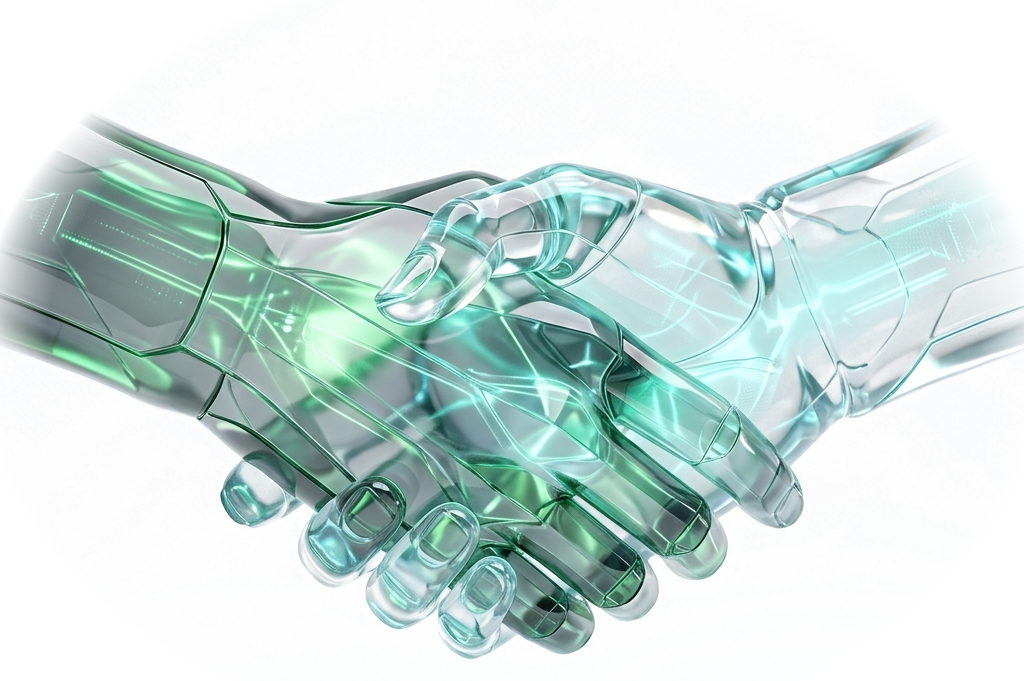
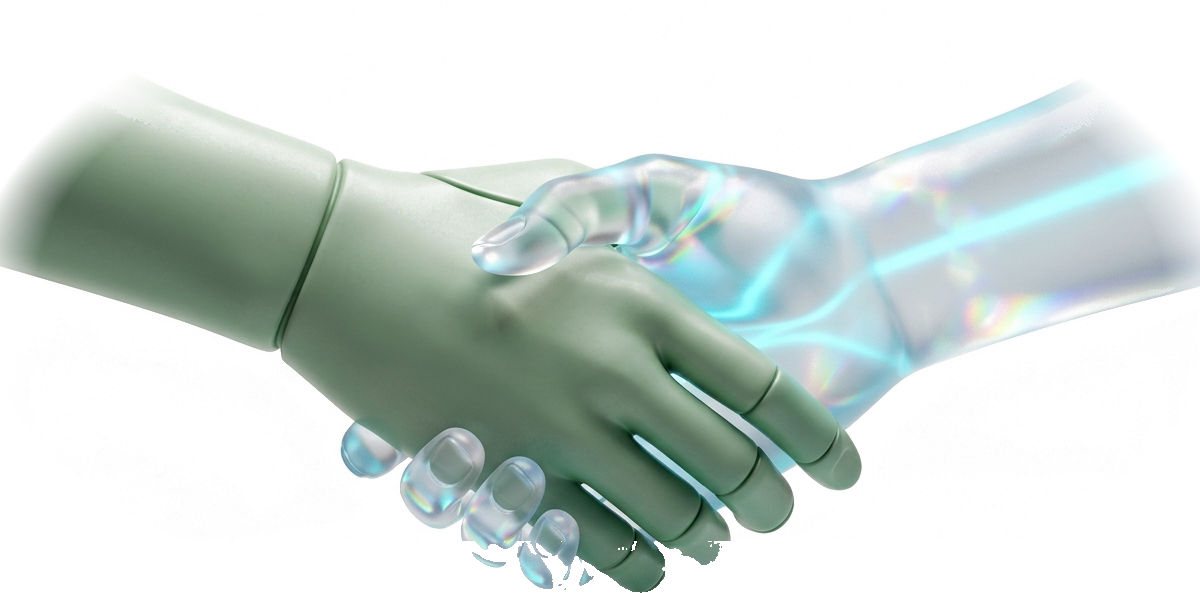
style: elevate partners arch upward to remove blank space and use dual-material handshake (solid soft green + blur transparent)

diff --git a/src/components/PartnersArchSection.tsx b/src/components/PartnersArchSection.tsx
@@ -34,8 +34,8 @@ export const PartnersArchSection: React.FC<PartnersArchSectionProps> = ({
         }
       },
       {
-        threshold: 0.25,
-        rootMargin: '0px 0px -50px 0px',
+        threshold: 0.2,
+        rootMargin: '0px 0px -40px 0px',
       }
     );
 
@@ -53,55 +53,50 @@ export const PartnersArchSection: React.FC<PartnersArchSectionProps> = ({
     (id) => PARTNERS_AND_CLIENTS.find((p) => p.id === id) || PARTNERS_AND_CLIENTS[0]
   );
 
-  // Middle-aligned arch positions in percentage of 1100x320 viewBox
-  // Symmetrical around 50% midpoint:
-  // Card 0 & 5: 23.82% and 76.18% (midpoint = 50%)
-  // Card 1 & 4: 34.27% and 65.73% (midpoint = 50%)
-  // Card 2 & 3: 44.73% and 55.27% (midpoint = 50%)
+  // Shifted UP coordinates in 1100x210 viewBox to remove empty blank vertical space
   const cardLayout = [
-    { xPct: 23.82, yPct: 54.69, delay: 0.15 }, // Card 0: ICT Division
-    { xPct: 34.27, yPct: 60.00, delay: 0.38 }, // Card 1: EDGE
-    { xPct: 44.73, yPct: 63.13, delay: 0.61 }, // Card 2: Bangladesh Army
-    { xPct: 55.27, yPct: 63.13, delay: 0.84 }, // Card 3: Dhaka University
-    { xPct: 65.73, yPct: 60.00, delay: 1.07 }, // Card 4: BITM
-    { xPct: 76.18, yPct: 54.69, delay: 1.30 }, // Card 5: Swisscontact
+    { xPct: 23.82, yPct: 49.0, delay: 0.15 }, // Card 0: ICT Division
+    { xPct: 34.27, yPct: 56.5, delay: 0.38 }, // Card 1: EDGE
+    { xPct: 44.73, yPct: 61.0, delay: 0.61 }, // Card 2: Bangladesh Army
+    { xPct: 55.27, yPct: 61.0, delay: 0.84 }, // Card 3: Dhaka University
+    { xPct: 65.73, yPct: 56.5, delay: 1.07 }, // Card 4: BITM
+    { xPct: 76.18, yPct: 49.0, delay: 1.30 }, // Card 5: Swisscontact
   ];
 
-  // SVG Arch Path: flows through centered cards, swoops around on the right, and points directly to the 3D handshake
+  // SVG Arch Path shifted up to match tighter vertical spacing
   const archPathD =
-    'M 130,158 C 170,164 215,170 262,175 C 300,180 340,188 377,192 C 415,196 455,202 492,202 C 530,202 570,202 608,202 C 645,202 685,196 723,192 C 760,188 800,180 838,175 C 875,170 915,185 945,210 C 980,235 1030,230 1045,185 C 1055,145 1015,115 965,105';
+    'M 130,90 C 170,96 215,100 262,103 C 300,106 340,114 377,118 C 415,122 455,128 492,128 C 530,128 570,128 608,128 C 645,128 685,122 723,118 C 760,114 800,106 838,103 C 875,98 915,112 945,134 C 980,160 1030,154 1045,116 C 1055,82 1015,60 965,65';
 
   return (
     <section
       id="partners"
       ref={sectionRef}
-      className="section-band bg-[#FBFCF8] text-slate-900 overflow-hidden relative"
+      className="py-12 sm:py-16 bg-[#FBFCF8] text-slate-900 overflow-hidden relative"
     >
-      {/* Background Ambient Aura */}
+      {/* Background Soft Ambient Glow */}
       <div
-        className="absolute top-1/2 left-1/2 -translate-x-1/2 -translate-y-1/2 w-[650px] h-[300px] bg-emerald-500/5 rounded-full blur-[90px] pointer-events-none"
+        className="absolute top-1/2 left-1/2 -translate-x-1/2 -translate-y-1/2 w-[700px] h-[260px] bg-emerald-500/6 rounded-full blur-[90px] pointer-events-none"
         aria-hidden="true"
       />
 
-      {/* Title Block - Kept exactly as requested */}
-      <div className="container-1520 mb-6 sm:mb-9 text-left">
+      {/* Title Block - Kept text exactly as requested with tightened vertical spacing */}
+      <div className="container-1520 mb-4 sm:mb-6 text-left">
         <p className="section-tag">PARTNERS</p>
         <h2 className="heading-gradient-green">
           Our Trusted Partners &amp; Clients
         </h2>
-        <p className="section-subtitle-max2 mt-2">
+        <p className="section-subtitle-max2 mt-1.5">
           We&apos;re proud to collaborate with leading government divisions, international NGOs, and technology enterprises.
         </p>
       </div>
 
-      {/* Main Arch Visual Stage */}
+      {/* Main Arch Visual Stage - Shifted up, eliminating blank space */}
       <div className="container-1520 relative">
-        {/* Scrollable Container on Mobile, Fluid on Desktop */}
-        <div className="w-full overflow-x-auto lg:overflow-visible pb-4 pt-1 -mx-4 px-4 sm:mx-0 sm:px-0 scrollbar-none">
-          <div className="relative min-w-[920px] lg:min-w-0 w-full aspect-[1100/320]">
+        <div className="w-full overflow-x-auto lg:overflow-visible pb-2 pt-1 -mx-4 px-4 sm:mx-0 sm:px-0 scrollbar-none">
+          <div className="relative min-w-[900px] lg:min-w-0 w-full aspect-[1100/210]">
             {/* SVG Background: The Arch Line that draws smoothly on scroll */}
             <svg
-              viewBox="0 0 1100 320"
+              viewBox="0 0 1100 210"
               className="absolute inset-0 w-full h-full pointer-events-none z-0"
               fill="none"
               preserveAspectRatio="xMidYMid meet"
@@ -119,7 +114,7 @@ export const PartnersArchSection: React.FC<PartnersArchSectionProps> = ({
 
                 {/* Soft glow filter */}
                 <filter id="archLineGlow" x="-20%" y="-20%" width="140%" height="140%">
-                  <feGaussianBlur stdDeviation="3" result="blur" />
+                  <feGaussianBlur stdDeviation="2.8" result="blur" />
                   <feMerge>
                     <feMergeNode in="blur" />
                     <feMergeNode in="SourceGraphic" />
@@ -131,7 +126,7 @@ export const PartnersArchSection: React.FC<PartnersArchSectionProps> = ({
               <path
                 d={archPathD}
                 stroke="#E2E8F0"
-                strokeWidth="2.5"
+                strokeWidth="2.2"
                 strokeLinecap="round"
                 strokeLinejoin="round"
                 opacity="0.65"
@@ -162,9 +157,9 @@ export const PartnersArchSection: React.FC<PartnersArchSectionProps> = ({
                   transitionDelay: '1.95s',
                 }}
               >
-                <circle cx="965" cy="105" r="7" fill="#10B981" opacity="0.35" className="animate-ping" />
-                <circle cx="965" cy="105" r="4" fill="#008F2F" />
-                <circle cx="965" cy="105" r="1.5" fill="#FFFFFF" />
+                <circle cx="965" cy="65" r="7" fill="#10B981" opacity="0.35" className="animate-ping" />
+                <circle cx="965" cy="65" r="4" fill="#008F2F" />
+                <circle cx="965" cy="65" r="1.5" fill="#FFFFFF" />
               </g>
             </svg>
 
@@ -174,14 +169,14 @@ export const PartnersArchSection: React.FC<PartnersArchSectionProps> = ({
               className="absolute -translate-x-1/2 -translate-y-1/2 z-10 transition-all duration-500"
               style={{
                 left: '34.27%',
-                top: '41%',
+                top: '32%',
                 opacity: isInView ? 1 : 0,
                 transform: `translate(-50%, -50%) scale(${isInView ? 1 : 0.6})`,
                 transitionDelay: '0.6s',
               }}
             >
               <div
-                className="w-6 h-6 rounded-full bg-white/95 backdrop-blur-md border border-slate-200/90 shadow-[0_3px_10px_rgba(0,0,0,0.07)] flex items-center justify-center text-slate-500 hover:text-emerald-700 hover:scale-110 transition-all cursor-default"
+                className="w-5.5 h-5.5 sm:w-6 sm:h-6 rounded-full bg-white/95 backdrop-blur-md border border-slate-200/90 shadow-[0_2px_8px_rgba(0,0,0,0.06)] flex items-center justify-center text-slate-500 hover:text-emerald-700 hover:scale-110 transition-all cursor-default"
                 title="Accredited Partner"
               >
                 <Check className="w-3 h-3 text-emerald-600" strokeWidth={2.6} />
@@ -193,14 +188,14 @@ export const PartnersArchSection: React.FC<PartnersArchSectionProps> = ({
               className="absolute -translate-x-1/2 -translate-y-1/2 z-10 transition-all duration-500"
               style={{
                 left: '55.27%',
-                top: '79%',
+                top: '84%',
                 opacity: isInView ? 1 : 0,
                 transform: `translate(-50%, -50%) scale(${isInView ? 1 : 0.6})`,
                 transitionDelay: '1.05s',
               }}
             >
               <div
-                className="w-6 h-6 rounded-full bg-white/95 backdrop-blur-md border border-slate-200/90 shadow-[0_3px_10px_rgba(0,0,0,0.07)] flex items-center justify-center text-slate-500 hover:text-emerald-700 hover:scale-110 transition-all cursor-default"
+                className="w-5.5 h-5.5 sm:w-6 sm:h-6 rounded-full bg-white/95 backdrop-blur-md border border-slate-200/90 shadow-[0_2px_8px_rgba(0,0,0,0.06)] flex items-center justify-center text-slate-500 hover:text-emerald-700 hover:scale-110 transition-all cursor-default"
                 title="Official MoU"
               >
                 <Sparkles className="w-3 h-3 text-amber-500" strokeWidth={2.2} />
@@ -212,21 +207,21 @@ export const PartnersArchSection: React.FC<PartnersArchSectionProps> = ({
               className="absolute -translate-x-1/2 -translate-y-1/2 z-10 transition-all duration-500"
               style={{
                 left: '65.73%',
-                top: '39%',
+                top: '30%',
                 opacity: isInView ? 1 : 0,
                 transform: `translate(-50%, -50%) scale(${isInView ? 1 : 0.6})`,
                 transitionDelay: '1.35s',
               }}
             >
               <div
-                className="w-6 h-6 rounded-full bg-white/95 backdrop-blur-md border border-slate-200/90 shadow-[0_3px_10px_rgba(0,0,0,0.07)] flex items-center justify-center text-slate-500 hover:text-emerald-700 hover:scale-110 transition-all cursor-default"
+                className="w-5.5 h-5.5 sm:w-6 sm:h-6 rounded-full bg-white/95 backdrop-blur-md border border-slate-200/90 shadow-[0_2px_8px_rgba(0,0,0,0.06)] flex items-center justify-center text-slate-500 hover:text-emerald-700 hover:scale-110 transition-all cursor-default"
                 title="International Trust"
               >
                 <Shield className="w-3 h-3 text-emerald-600" strokeWidth={2.2} />
               </div>
             </div>
 
-            {/* 6 Middle-Aligned Transparent Blur Cards (Refined Compact Sizing) */}
+            {/* 6 Middle-Aligned Transparent Blur Cards (Shifted UP) */}
             {featuredPartners.map((partner, idx) => {
               const layout = cardLayout[idx];
               return (
@@ -241,8 +236,8 @@ export const PartnersArchSection: React.FC<PartnersArchSectionProps> = ({
                   <div
                     onClick={() => onPartnerClick?.(partner)}
                     className={`
-                      w-[86px] sm:w-[96px] lg:w-[104px]
-                      h-[66px] sm:h-[74px] lg:h-[80px]
+                      w-[84px] sm:w-[94px] lg:w-[102px]
+                      h-[64px] sm:h-[72px] lg:h-[78px]
                       rounded-[18px] sm:rounded-[22px]
                       p-2.5 sm:p-3
                       flex items-center justify-center
@@ -260,7 +255,7 @@ export const PartnersArchSection: React.FC<PartnersArchSectionProps> = ({
                       opacity: isInView ? 1 : 0,
                       transform: isInView
                         ? 'translateY(0) scale(1)'
-                        : 'translateY(20px) scale(0.85)',
+                        : 'translateY(16px) scale(0.85)',
                       transitionDelay: `${layout.delay}s`,
                     }}
                     role="button"
@@ -284,11 +279,11 @@ export const PartnersArchSection: React.FC<PartnersArchSectionProps> = ({
                       alt={partner.name}
                       loading="lazy"
                       draggable={false}
-                      className="max-h-[30px] sm:max-h-[35px] lg:max-h-[38px] max-w-[62px] sm:max-w-[72px] lg:max-w-[80px] w-auto h-auto object-contain select-none transition-transform duration-300 group-hover:scale-108"
+                      className="max-h-[28px] sm:max-h-[34px] lg:max-h-[36px] max-w-[60px] sm:max-w-[70px] lg:max-w-[78px] w-auto h-auto object-contain select-none transition-transform duration-300 group-hover:scale-108"
                     />
 
                     {/* Tooltip on Hover */}
-                    <div className="absolute -bottom-9 left-1/2 -translate-x-1/2 opacity-0 group-hover:opacity-100 pointer-events-none transition-all duration-200 z-30 whitespace-nowrap bg-slate-900/90 text-white text-[10px] font-medium px-2.5 py-0.5 rounded-full shadow-lg">
+                    <div className="absolute -bottom-8 left-1/2 -translate-x-1/2 opacity-0 group-hover:opacity-100 pointer-events-none transition-all duration-200 z-30 whitespace-nowrap bg-slate-900/90 text-white text-[10px] font-medium px-2.5 py-0.5 rounded-full shadow-lg">
                       {partner.name}
                     </div>
                   </div>
@@ -296,32 +291,32 @@ export const PartnersArchSection: React.FC<PartnersArchSectionProps> = ({
               );
             })}
 
-            {/* Futuristic 3D Glass Handshake Visual: Minimal, Pure Transparent Graphic, No Card */}
+            {/* Futuristic 3D Handshake Visual: Dual Material (Solid Soft Green + Translucent Glass) */}
             <div
               className="absolute -translate-x-1/2 -translate-y-1/2 z-20 pointer-events-auto"
               style={{
                 left: '87.73%',
-                top: '23.44%',
+                top: '28.0%',
               }}
             >
               <div
-                className="w-20 sm:w-24 lg:w-28 flex items-center justify-center transition-all duration-700 ease-out group select-none cursor-pointer"
+                className="w-22 sm:w-26 lg:w-30 flex items-center justify-center transition-all duration-700 ease-out group select-none cursor-pointer"
                 style={{
                   opacity: isInView ? 1 : 0,
                   transform: isInView
-                    ? 'translateY(0) scale(1) rotate(-4deg)'
-                    : 'translateY(20px) scale(0.75) rotate(0deg)',
-                  transitionDelay: '1.65s',
+                    ? 'translateY(0) scale(1) rotate(-3deg)'
+                    : 'translateY(16px) scale(0.75) rotate(0deg)',
+                  transitionDelay: '1.60s',
                 }}
                 title="Strategic Trust &amp; Institutional Partnership"
               >
-                {/* Pure Transparent 3D Glass Handshake Visual - Minimal without card */}
+                {/* 3D Handshake: One Hand Solid Soft Green, One Hand Blur Transparent Glass */}
                 <img
-                  src="/assets/partners/handshake_glass_3d.png"
-                  alt="3D Glass Futuristic Handshake - Trust &amp; Partnership"
-                  className="w-full h-auto object-contain select-none transition-transform duration-300 group-hover:scale-112 group-hover:-rotate-3"
+                  src={`/assets/partners/handshake_glass_3d.png?v=${Date.now()}`}
+                  alt="3D Futuristic Handshake - Solid Soft Green &amp; Transparent Glass"
+                  className="w-full h-auto object-contain select-none transition-transform duration-300 group-hover:scale-112 group-hover:-rotate-2"
                   style={{
-                    filter: 'drop-shadow(0 6px 14px rgba(0, 143, 47, 0.14))',
+                    filter: 'drop-shadow(0 6px 14px rgba(0, 143, 47, 0.12))',
                   }}
                   loading="lazy"
                 />
